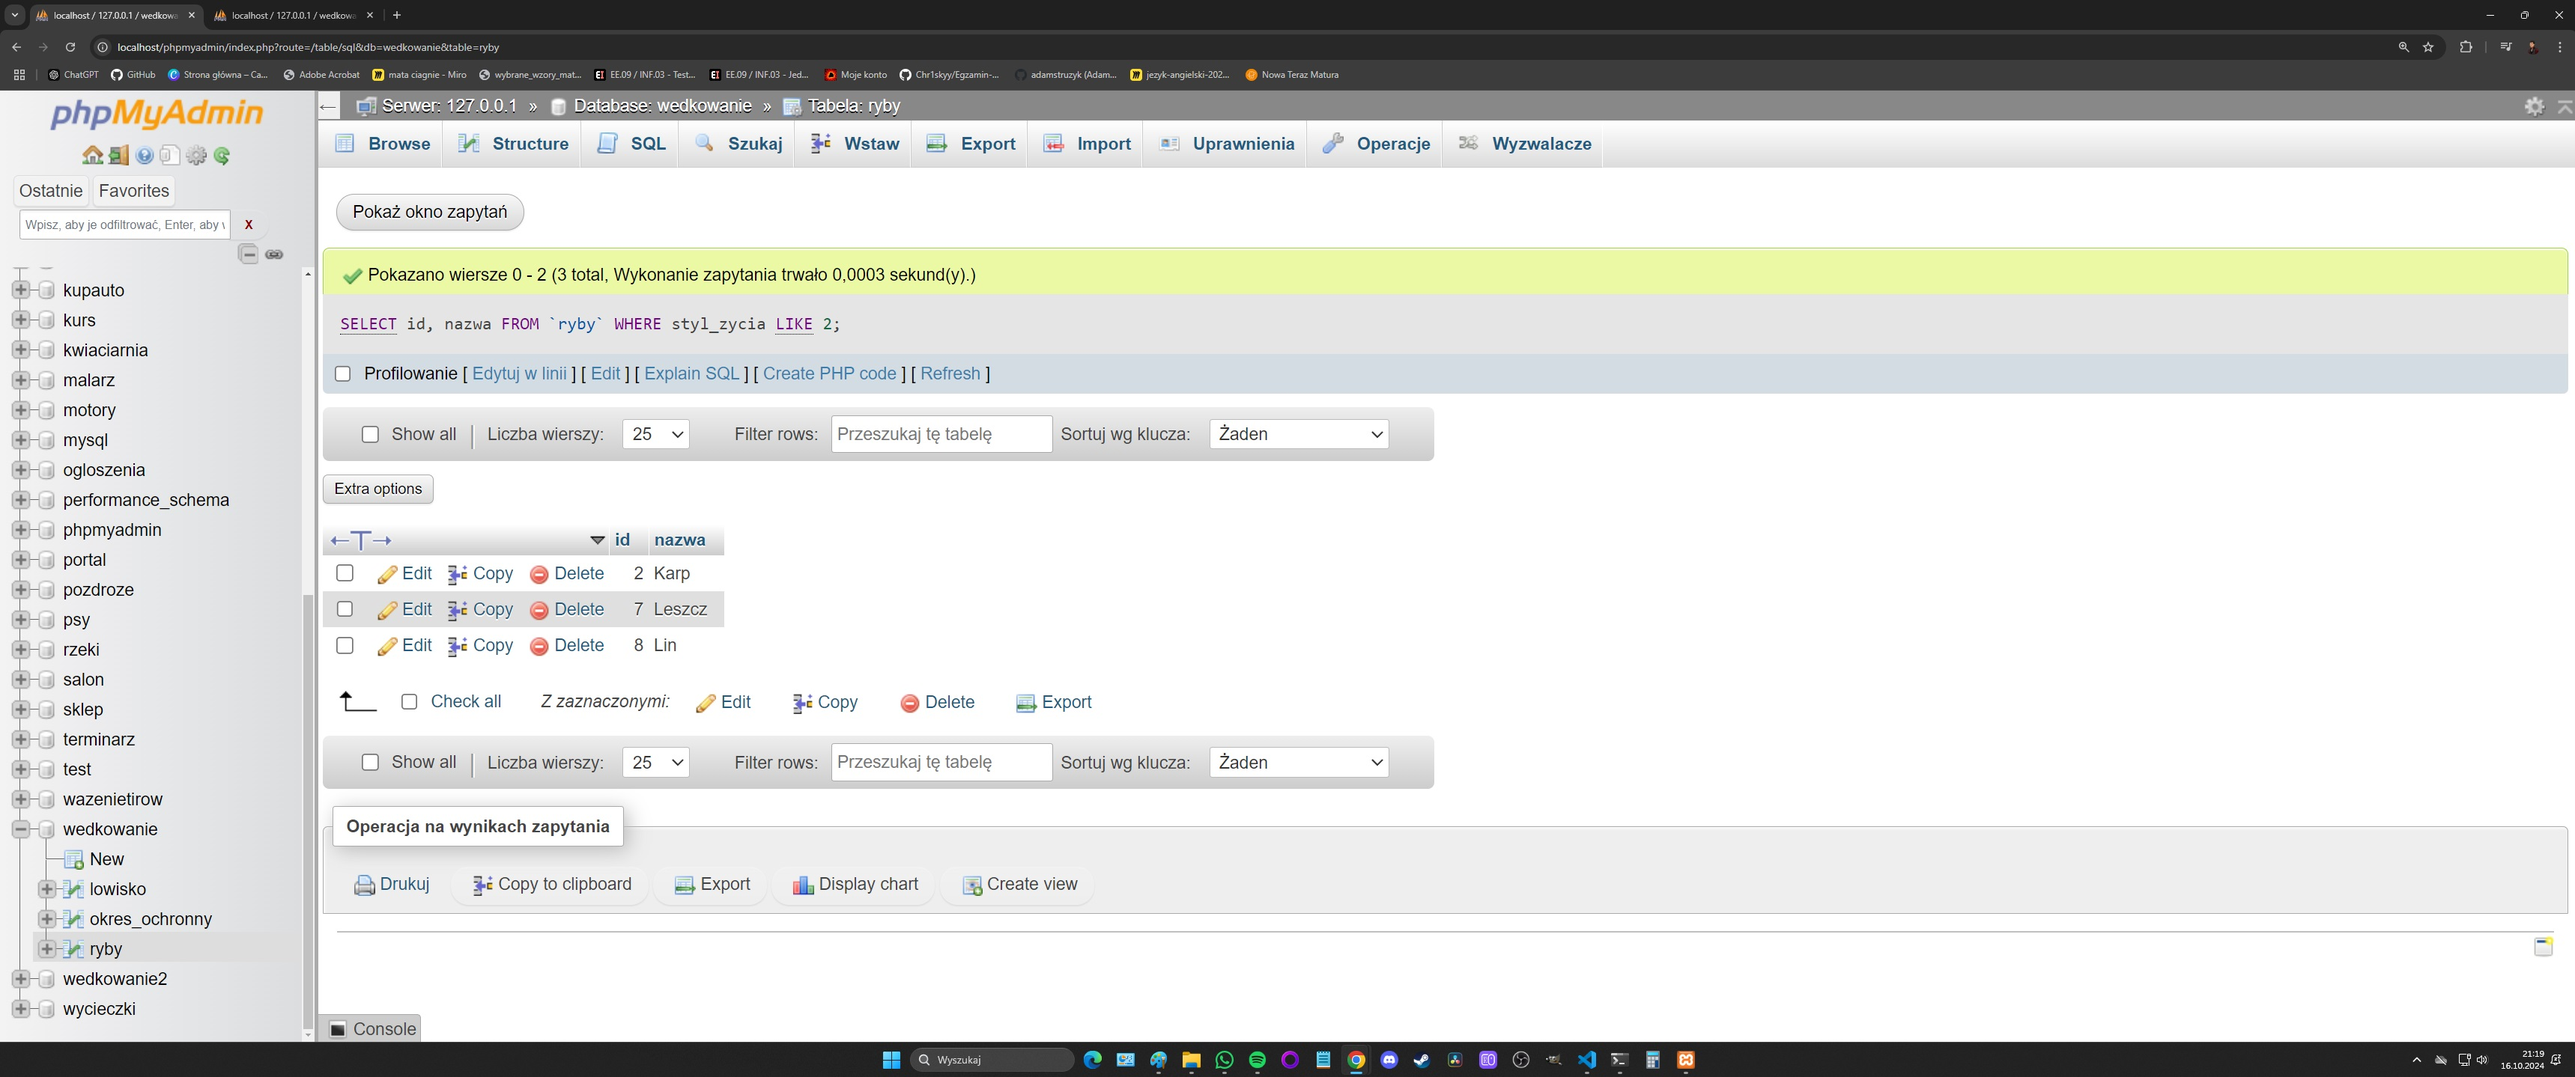
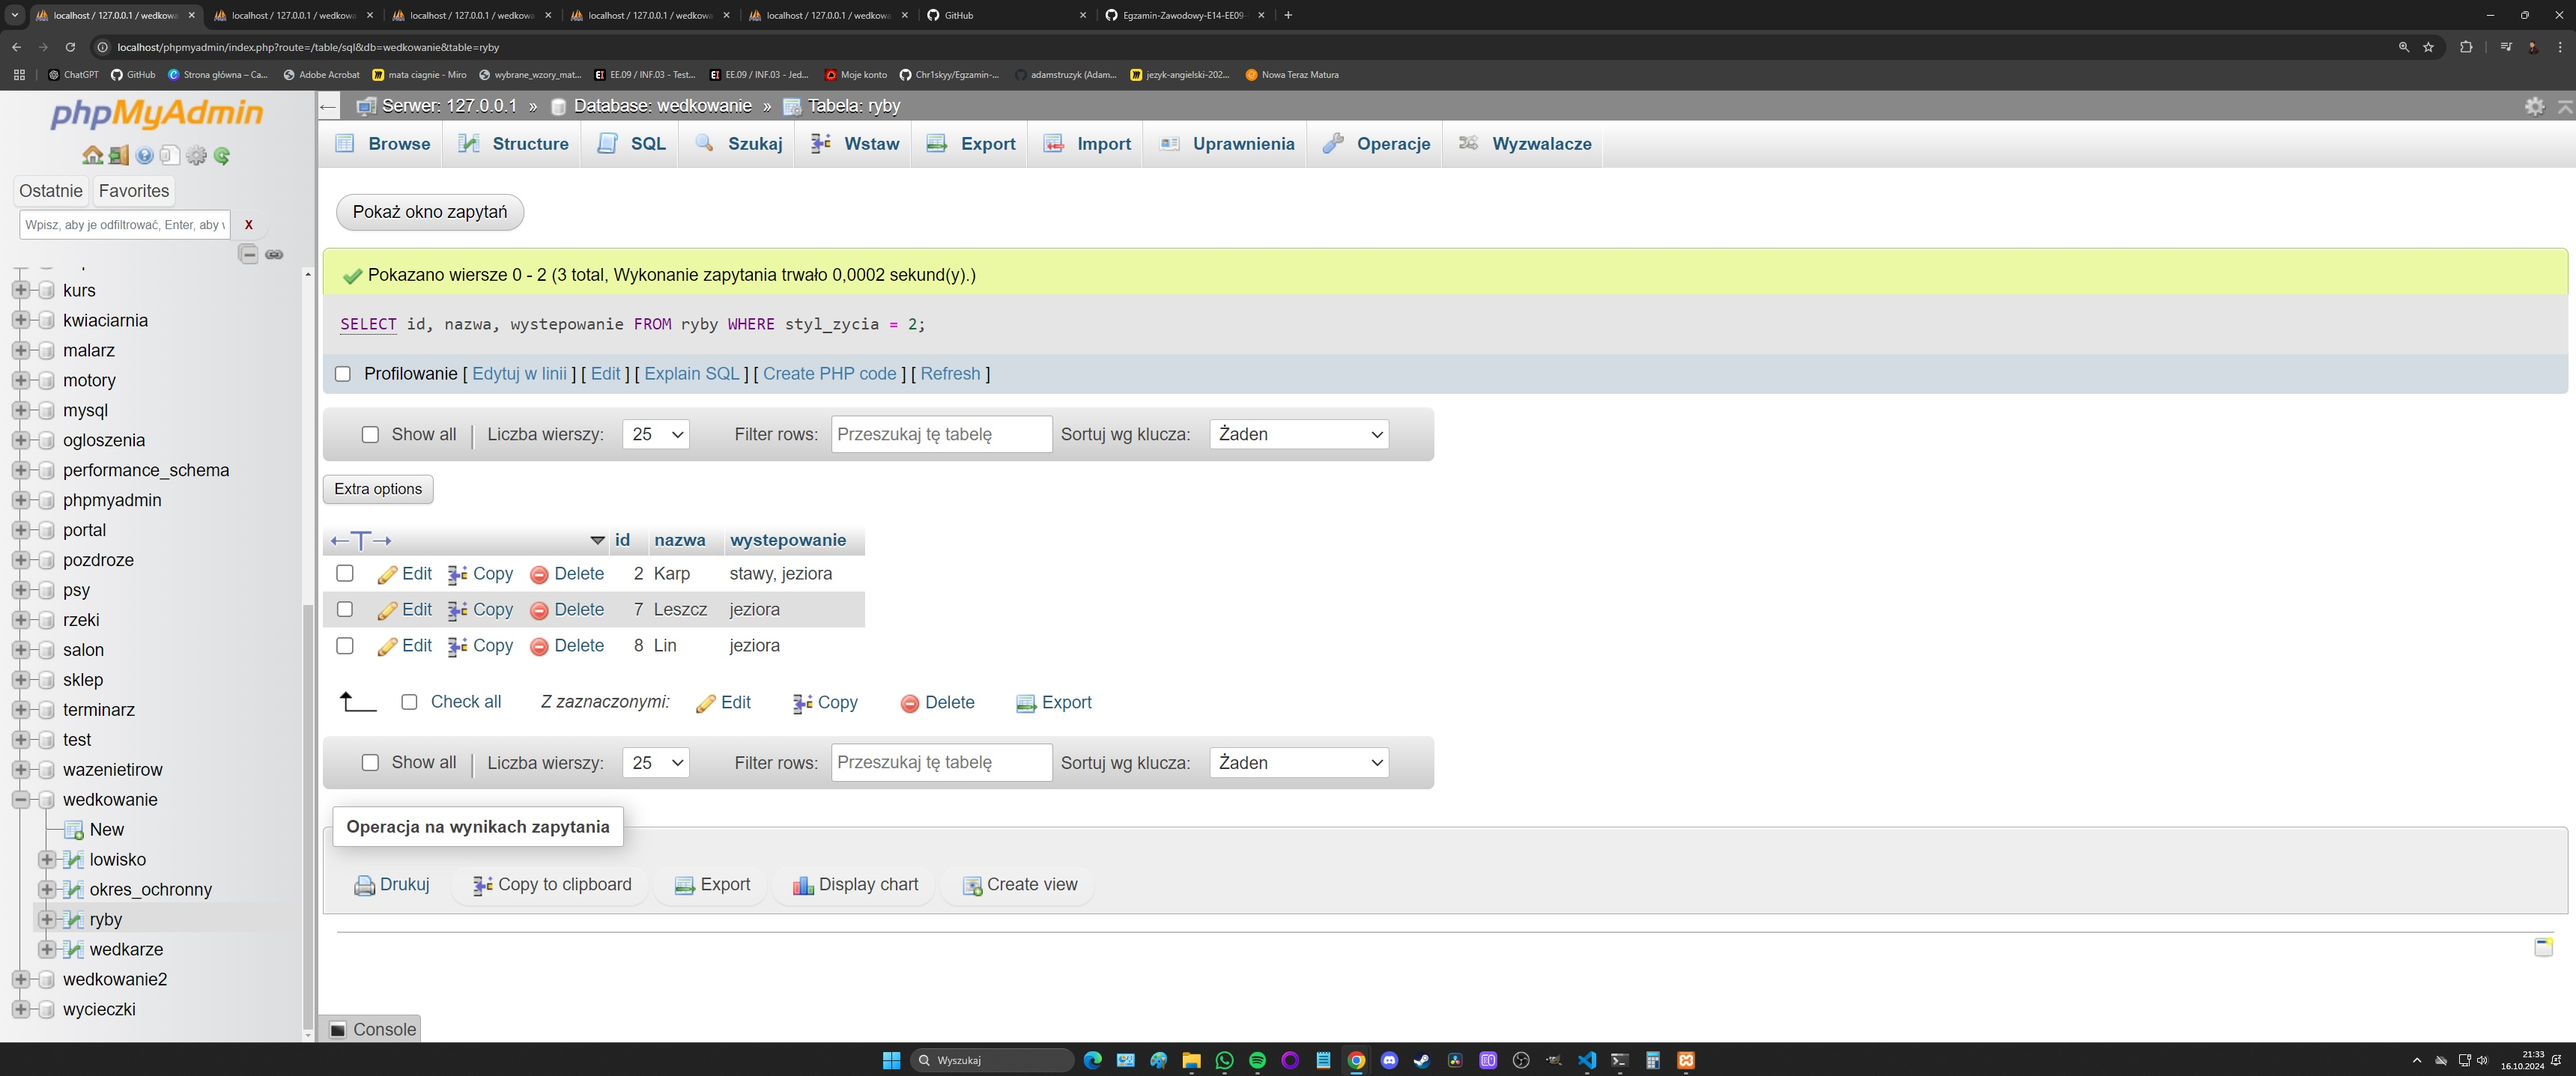
php

diff --git a/julcia/3_ee09-2020-styczen-egzamin-zawodowy-praktyczny/rozwiazanie/wedkowanie.php b/julcia/3_ee09-2020-styczen-egzamin-zawodowy-praktyczny/rozwiazanie/wedkowanie.php
@@ -16,6 +16,22 @@
     <section id="prawy">
         <h3>Ryby spokojnego żeru (białe)</h3>
         <!-- skrypt -->
+        <?php
+            $polaczenie = mysqli_connect('localhost', 'root', '', 'wedkowanie');
+            if(!$polaczenie){
+                exit();
+            }
+            else{
+                $zapytanie = "SELECT id, nazwa, wystepowanie FROM ryby WHERE styl_zycia = 2;";
+                $odpowiedz = mysqli_query($polaczenie, $zapytanie);
+                $text = " ";
+                while($tablica = mysqli_fetch_row($odpowiedz)){
+                    $text .= "$tablica[0]. $tablica[1], występuje w: $tablica[2]<br>";
+                }
+                echo $text;
+            }
+            mysqli_close($polaczenie);
+        ?>
         <ol>
             <li><a href="http://wedkuje.pl/" target="_blank">Odwiedź takie;</a></li>
             <li><a href="http://www.pzw.org.pl/" target="_blank">Polski Związek Wędkarski</a></li>
